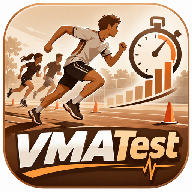
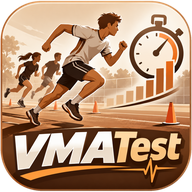
Icônes d'installation détourées (fond transparent) + maskable, manifeste corrigé
Claude-Session: https://claude.ai/code/session_01DWMzvDjuQqdn6i5FnQMur8

diff --git a/index.html b/index.html
@@ -7,7 +7,7 @@
 <meta name="theme-color" content="#0d0f14">
 <link rel="manifest" href="manifest.webmanifest">
 <link rel="icon" href="icons/icon-192.png">
-<link rel="apple-touch-icon" href="icons/icon-192.png">
+<link rel="apple-touch-icon" href="icons/icon-maskable-192.png">
 <meta name="apple-mobile-web-app-capable" content="yes">
 <meta name="mobile-web-app-capable" content="yes">
 <link href="https://fonts.googleapis.com/css2?family=Bebas+Neue&family=Outfit:wght@300;400;600;700&display=swap" rel="stylesheet">

diff --git a/version.js b/version.js
@@ -1,1 +1,1 @@
-const APP_VERSION="1.2.0"; // ← seul endroit à modifier pour changer la version
+const APP_VERSION="1.2.1"; // ← seul endroit à modifier pour changer la version
